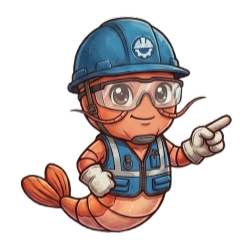
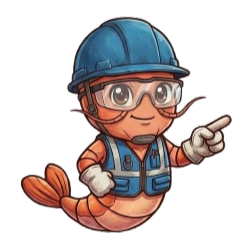
implementazione sito figma in quello locale

Changed region(s): [[0.504, 0.14, 0.644, 0.252]]

diff --git a/public_html/index.php b/public_html/index.php
@@ -54,57 +54,61 @@
                     </div>
                 </div>
 
-                <img src="assets/images/20260626_paco_v5_indica_v1.png" alt="Paco mascot" class="mx-auto h-[35rem] w-auto object-contain drop-shadow-3xl">
-
+                <img src="assets/images/20260626_paco_v5_v3_upscale_v1.png" alt="Paco mascot" class="mx-auto h-[35rem] w-auto object-contain drop-shadow-3xl">
+                <!--<img src="assets/images/20260626_paco_v5_indica_v1.png" alt="Paco mascot" class="mx-auto h-[35rem] w-auto object-contain drop-shadow-3xl">-->
 
                 <div class="space-y-8">
-                    <div class="inline-flex items-center gap-2 rounded-full border border-chartreuse/40 bg-chartreuse/15 px-4 py-2 text-sm font-semibold text-amethyst">
-                        <span class="h-2.5 w-2.5 rounded-full bg-lipstick animate-pulse"></span>
-                        Nuova generazione di manifattura additiva sostenibile
+                    <div class="inline-flex items-center gap-2 rounded-full border border-amethyst/40 bg-chartreuse/15 px-4 py-2 text-sm font-semibold text-amethyst">
+                        FDM - RESINA - CAD - CNC - RICICLO
                     </div>
                     <h1 class="text-4xl sm:text-5xl lg:text-6xl font-black tracking-tight text-amethyst leading-tight">
                         La tua manifattura digitale,<br>
-                        <span class="text-lipstick">trasparente</span> e <span class="text-chartreuse">circolare</span>.
+                        <span class="text-lipstick text-shadow-lg/30">sostenibile</span> e <span class="text-chartreuse text-shadow-lg/30">trasparente</span>.
                     </h1>
                     <p class="max-w-2xl text-lg text-gray-700 leading-relaxed">
                         Da PrimeFactory trasformiamo idee, file CAD e materiali di scarto in soluzioni stampate con precisione e responsabilità ambientale. Ogni richiesta viene analizzata da un team tecnico entro 24 ore.
                     </p>
                     <div class="flex flex-col sm:flex-row gap-4">
                         <a href="preventivo.php" class="inline-flex items-center justify-center rounded-2xl bg-amethyst px-6 py-3 text-white font-bold shadow-lg shadow-amethyst/15 transition hover:-translate-y-1">
-                            Richiedi un preventivo gratuito
+                            Richiedi un preventivo GRATUITO
                         </a>
                         <a href="servizi.php" class="inline-flex items-center justify-center rounded-2xl border border-gray-200 bg-white px-6 py-3 font-semibold text-carbon transition hover:border-lipstick">
                             Scopri i servizi
                         </a>
                     </div>
                     <div class="flex flex-wrap gap-4 text-sm text-gray-600">
-                        <span class="rounded-full bg-white/80 px-3 py-1 shadow-sm">FDM e Resina</span>
-                        <span class="rounded-full bg-white/80 px-3 py-1 shadow-sm">Progettazione CAD</span>
+                        <span class="rounded-full bg-white/80 px-3 py-1 shadow-sm">Stampa FDM e SLA</span>
+                        <span class="rounded-full bg-white/80 px-3 py-1 shadow-sm">Progettazione CAD e CAM</span>
                         <span class="rounded-full bg-white/80 px-3 py-1 shadow-sm">Riciclo e punti fedeltà</span>
                     </div>
                 </div>
             </div>
         </section>
 
+        <hr class="mb-5">
+
         <section class="max-w-7xl mx-auto px-4 pb-20">
-            <div class="grid gap-6 md:grid-cols-3">
-                <article class="rounded-[1.5rem] border border-gray-100 bg-white/80 p-7 shadow-sm">
+            <div class="grid gap-3 md:grid-cols-3 md:grid-rows-[20px_20px_minmax(100px,1fr)]">
+                <h4 class="col-span-3 text-center">PERCHÉ PRIMEFACTORY</h4>
+                <h2 class="col-span-3 text-center">Manifattura tecnica. Etica. Trasparente.</h2>
+                <article class="h-full rounded-[1.5rem] border border-gray-100 bg-white/80 p-7 shadow-sm">
                     <div class="mb-4 inline-flex h-12 w-12 items-center justify-center rounded-2xl bg-chartreuse/20 text-2xl">⚙</div>
-                    <h3 class="text-xl font-black text-amethyst">Precisione tecnica</h3>
-                    <p class="mt-2 text-sm leading-relaxed text-gray-600">Da prototipi funzionali a pezzi estetici, ogni progetto viene studiato con tolleranze e materiali adeguati.</p>
+                    <h3 class="text-xl font-black text-amethyst">Alta Precisione</h3>
+                    <p class="mt-2 text-sm leading-relaxed text-gray-600">Tecnologie FDM e Resina con tolleranze da ±0.05mm. Ogni stampa è monitorata e documentata con il report energetico.</p>
                 </article>
-                <article class="rounded-[1.5rem] border border-gray-100 bg-white/80 p-7 shadow-sm">
+                <article class="h-full rounded-[1.5rem] border border-gray-100 bg-white/80 p-7 shadow-sm">
                     <div class="mb-4 inline-flex h-12 w-12 items-center justify-center rounded-2xl bg-lipstick/10 text-2xl">♻</div>
                     <h3 class="text-xl font-black text-amethyst">Economia circolare</h3>
-                    <p class="mt-2 text-sm leading-relaxed text-gray-600">Ricicliamo le plastiche di scarto e trasformiamo il tuo impegno green in punti fedeltà e sconti.</p>
+                    <p class="mt-2 text-sm leading-relaxed text-gray-600">Ricicliamo stampe fallite, supporti e scarti plastici domestici trasformandoli in nuovo filamento e in punti fedeltà.</p>
                 </article>
-                <article class="rounded-[1.5rem] border border-gray-100 bg-white/80 p-7 shadow-sm">
+                <article class="h-full rounded-[1.5rem] border border-gray-100 bg-white/80 p-7 shadow-sm">
                     <div class="mb-4 inline-flex h-12 w-12 items-center justify-center rounded-2xl bg-amethyst/10 text-2xl">📦</div>
                     <h3 class="text-xl font-black text-amethyst">Flusso semplice</h3>
                     <p class="mt-2 text-sm leading-relaxed text-gray-600">Compila il modulo in 3 passaggi, carica immagine di riferimento e ricevi una risposta pronta per il prossimo step.</p>
                 </article>
             </div>
         </section>
+        <hr class="mb-5">
     </main>
 
     <?php include __DIR__ . '/includes/footer.php'; ?>
